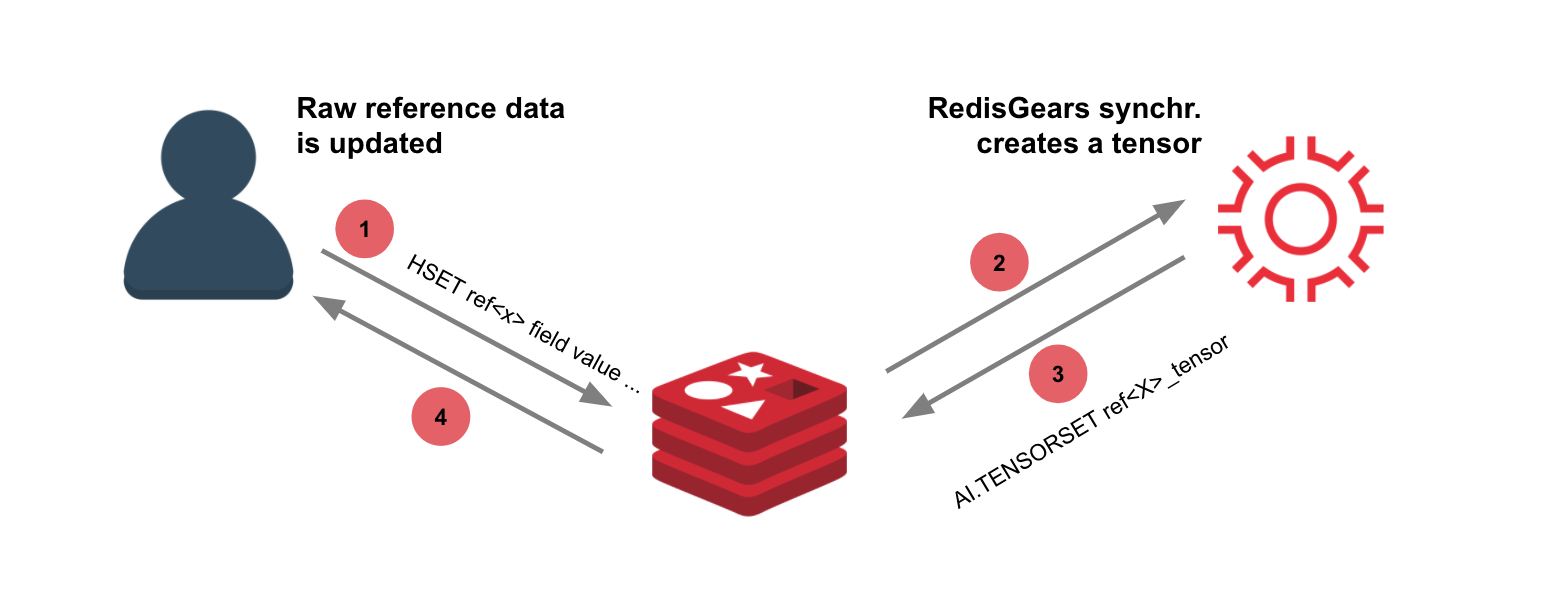
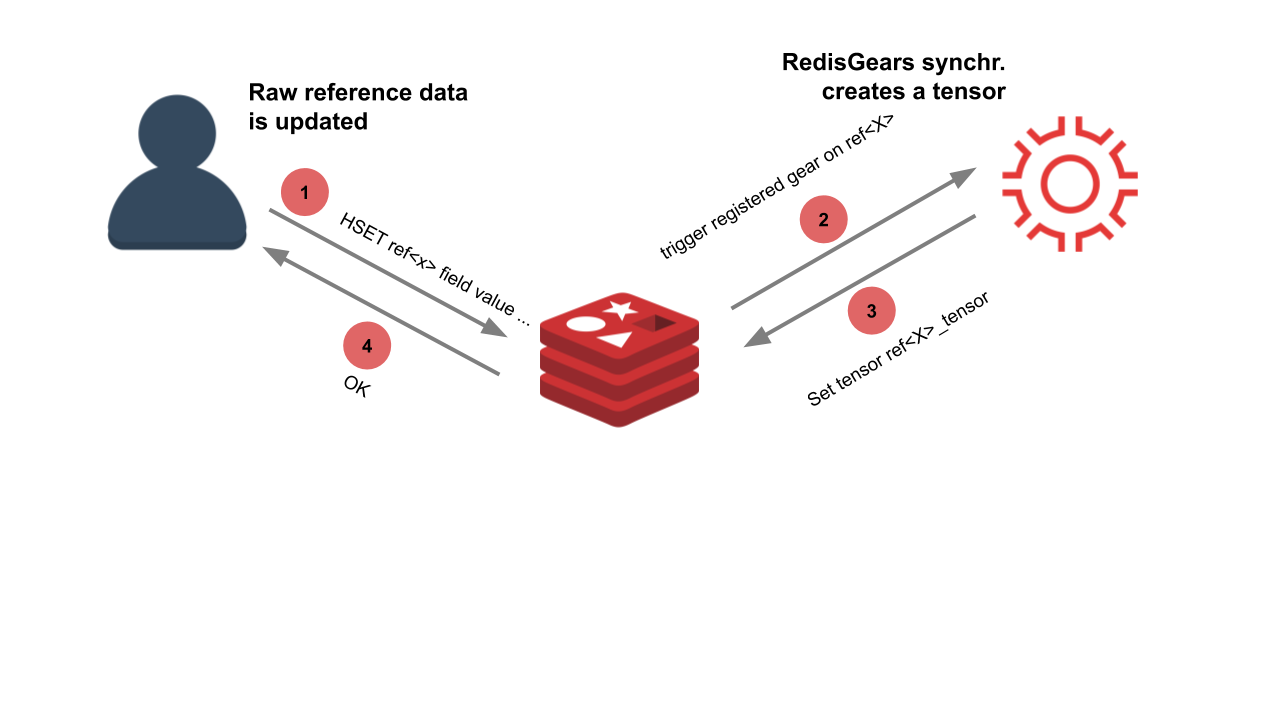
arcitecture docs

diff --git a/README.md b/README.md
@@ -15,10 +15,31 @@ It uses:
 
 ## Architecture
 ### Flow 1: Updating reference data
-![Architecture](/flow1.png)
-### Flow 2: Transaction scoring
-![Architecture](/flow2.png)
+The user reference data is represented by a Redis sorted set mapping between reference transactions timestamps and the
+reference transaction key names. The reference transactions themselves, each stored as a Redis hash. 
 
+A gear is registered to listen to `SET` events of the `hash` type. This gear is mapping the hash into a tensor and sets
+it in the keyspace using `hashToTensor` function. Using `numpy`, this function serlizes the values of the hash into an
+`ndarray` with shape `(1, 30)`, creates a tensor object and sets it into the keyspace.
+
+
+![Updating reference data](./flow1.png "Updating reference data")
+
+
+### Flow 2: Transaction scoring
+![High level architecture](./flow2.png "High level architecture")
+
+Once a transation needs to be evaluated, we set it as a tensor in the keyspace with a shape of `(1, 30)` and trigger a gear with the tensor key name
+and a time range, represented by two timestamps. The gear then executes a range query over the sorted set (`ZRANGEBYSCORE`) 
+and retrieve a list of hash names (recall that each hash has a corresponding tensor).
+
+![Architecture](./flow3.png)
+
+From this list it extracts a list of tensor from the keyspace and sends it to a Torch script. This torch script creates a
+new tensor with the shape `(1, 256)` out of the list, by concatenating the tensors and either pad the remaining space or trimming it.
+The new tensor is the reference data for the models which expect a reference data with shape of `(1, 256)` and transaction data 
+with shape of `(1, 30)`. Onc the models are done, the gear uses `numpy` to aggregate the results and save them to a tensor
+with shape `(1, 2)` that contains the probability for the transaction to be a fraud.
 
 ## Running the Demo
 To run the demo:
